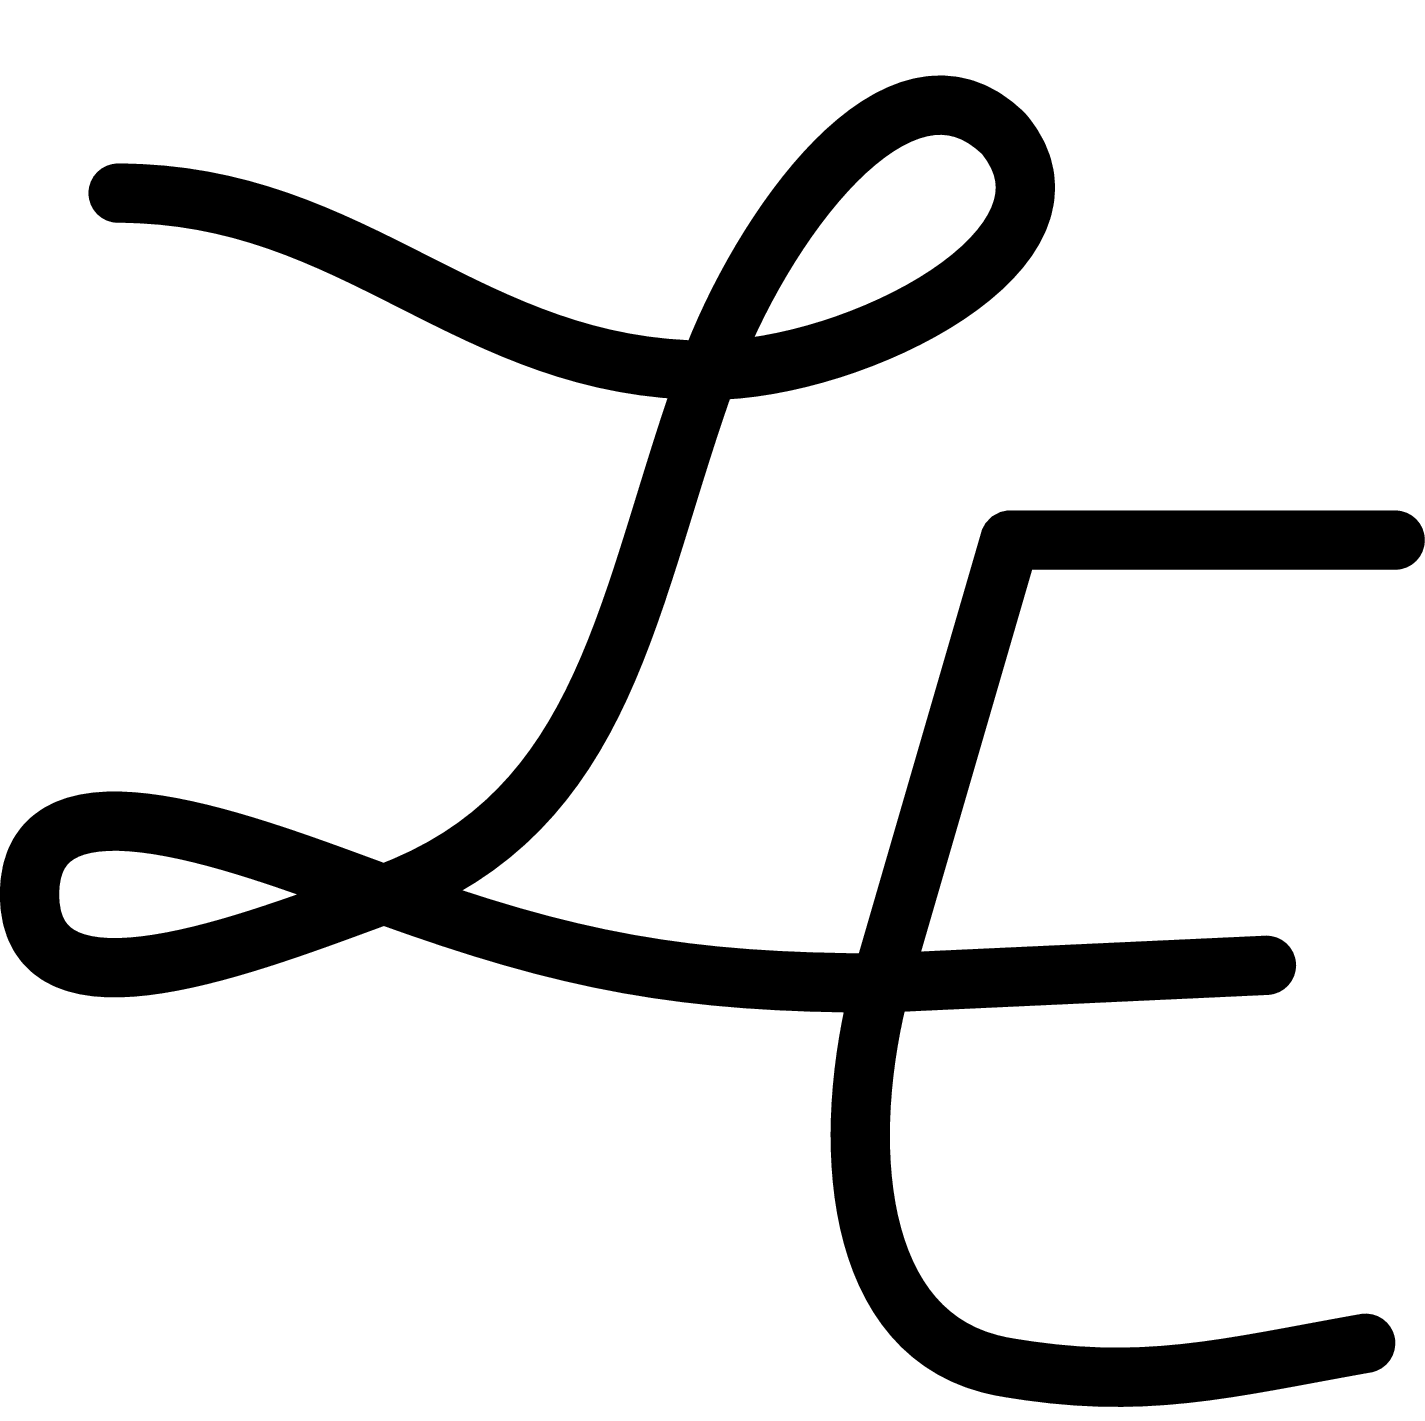
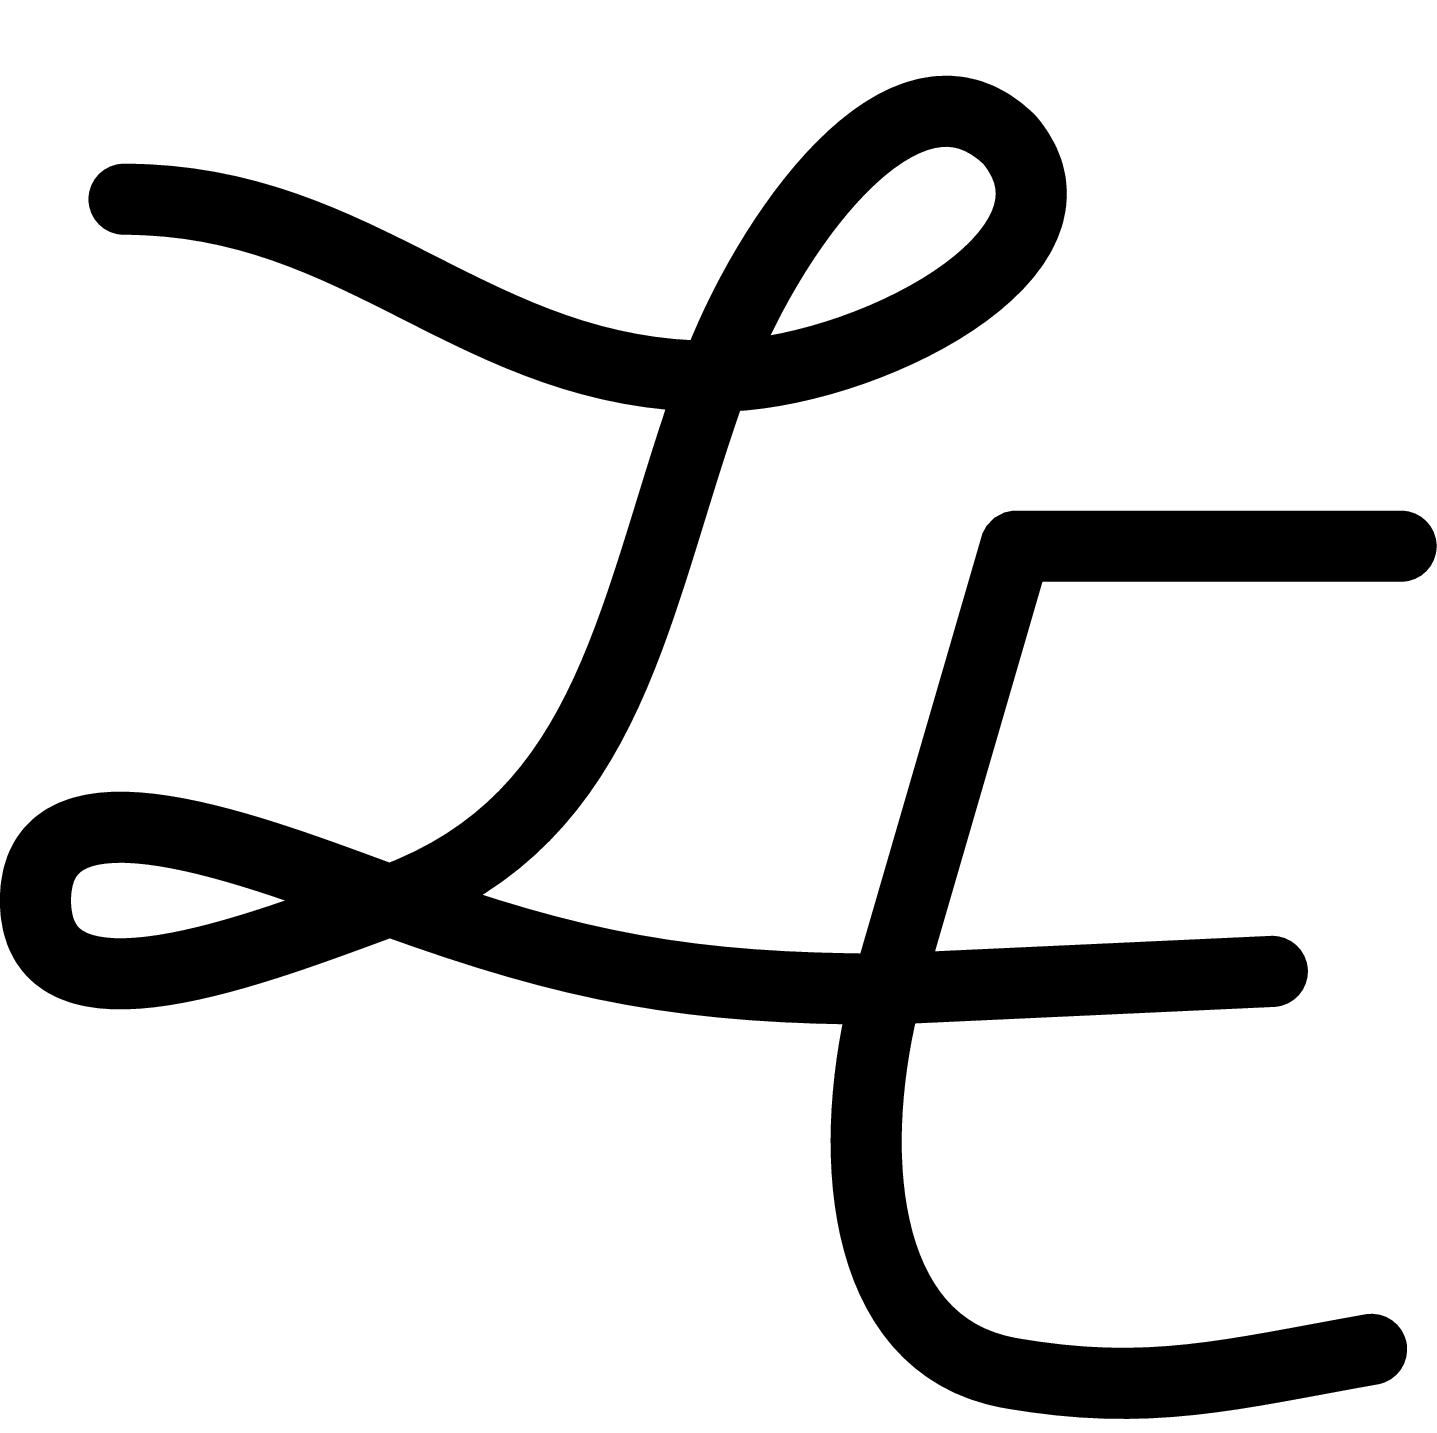
thicker to 6mm transparent png background

diff --git a/monogram_logalena.tex b/monogram_logalena.tex
@@ -100,7 +100,7 @@
 %
 %
 %
-\newcommand\thicc{5mm}
+\newcommand\thicc{6mm}
 \draw[line width=\thicc, line cap=round, line join=round]
 % (-0.75, 6.5) to[out=0, in=180]
 (0.0, 6.4375) to[out=0, in=180]
